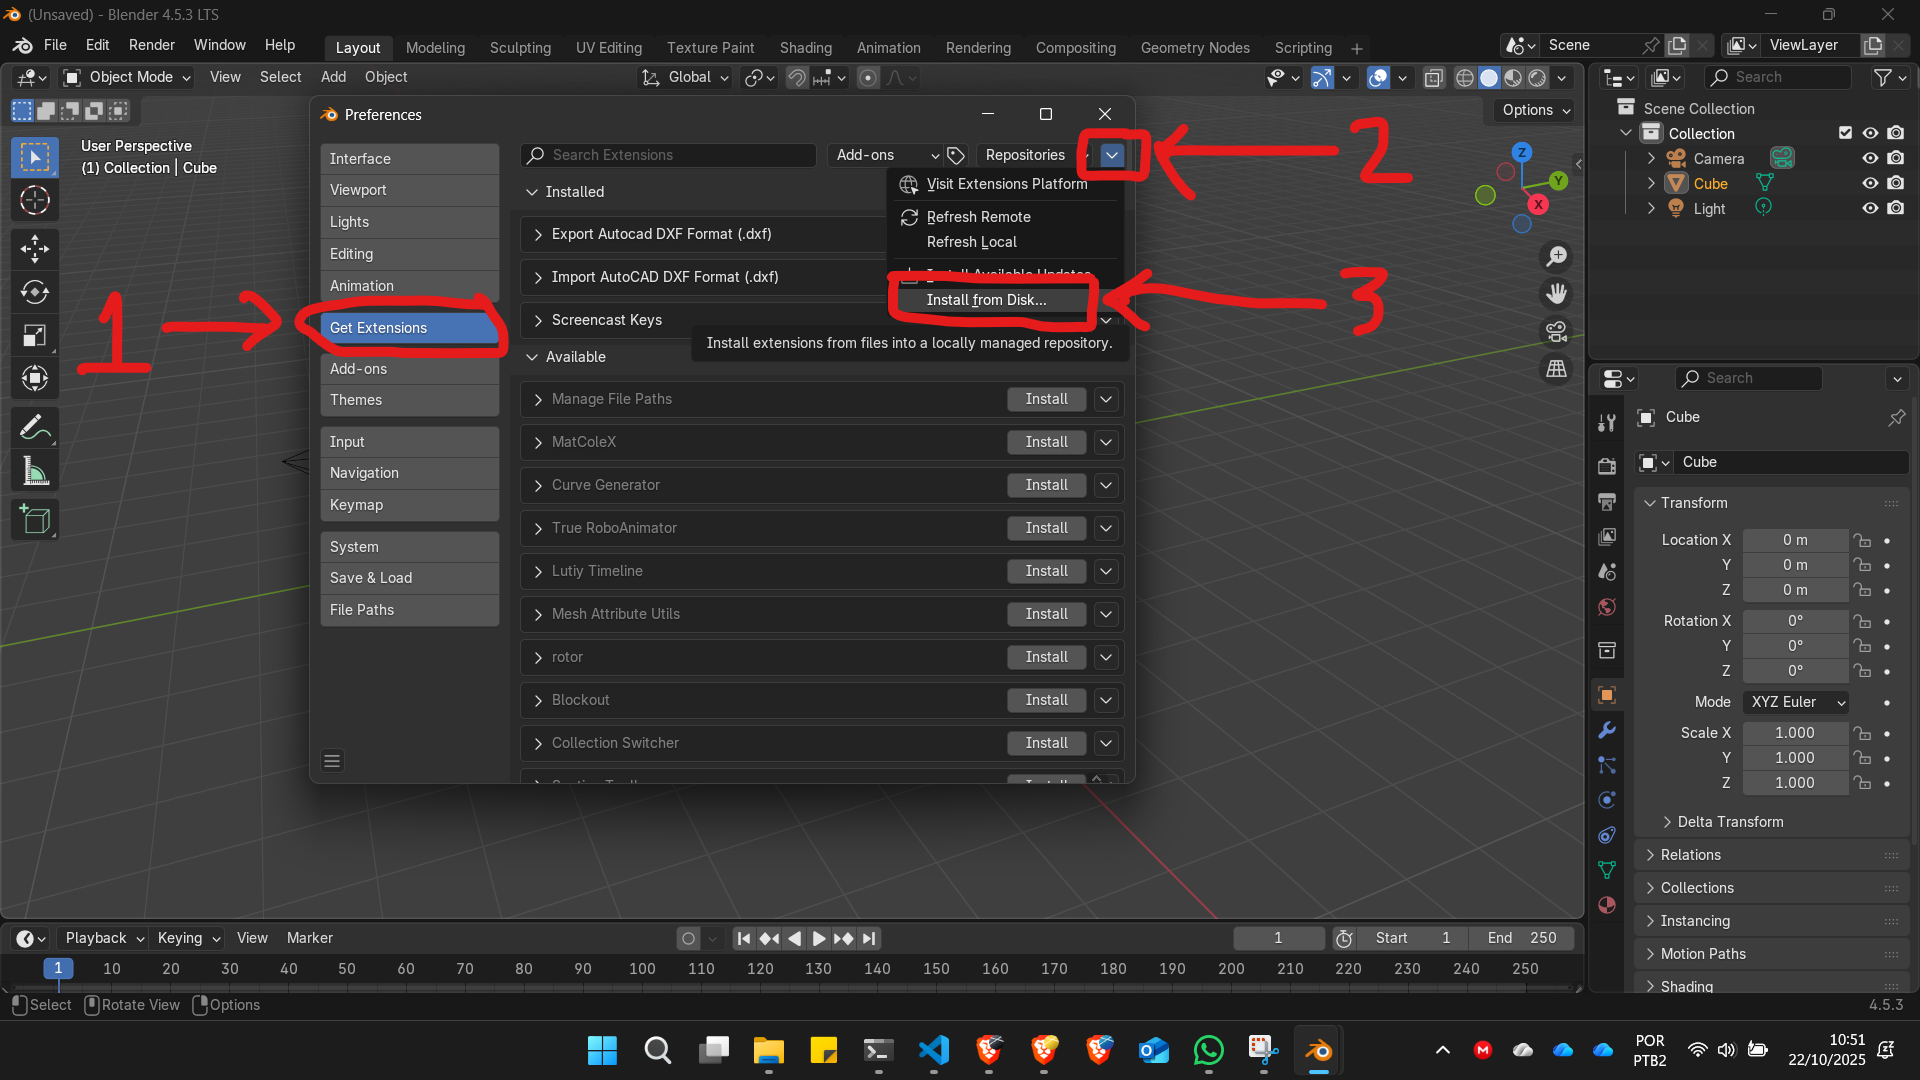
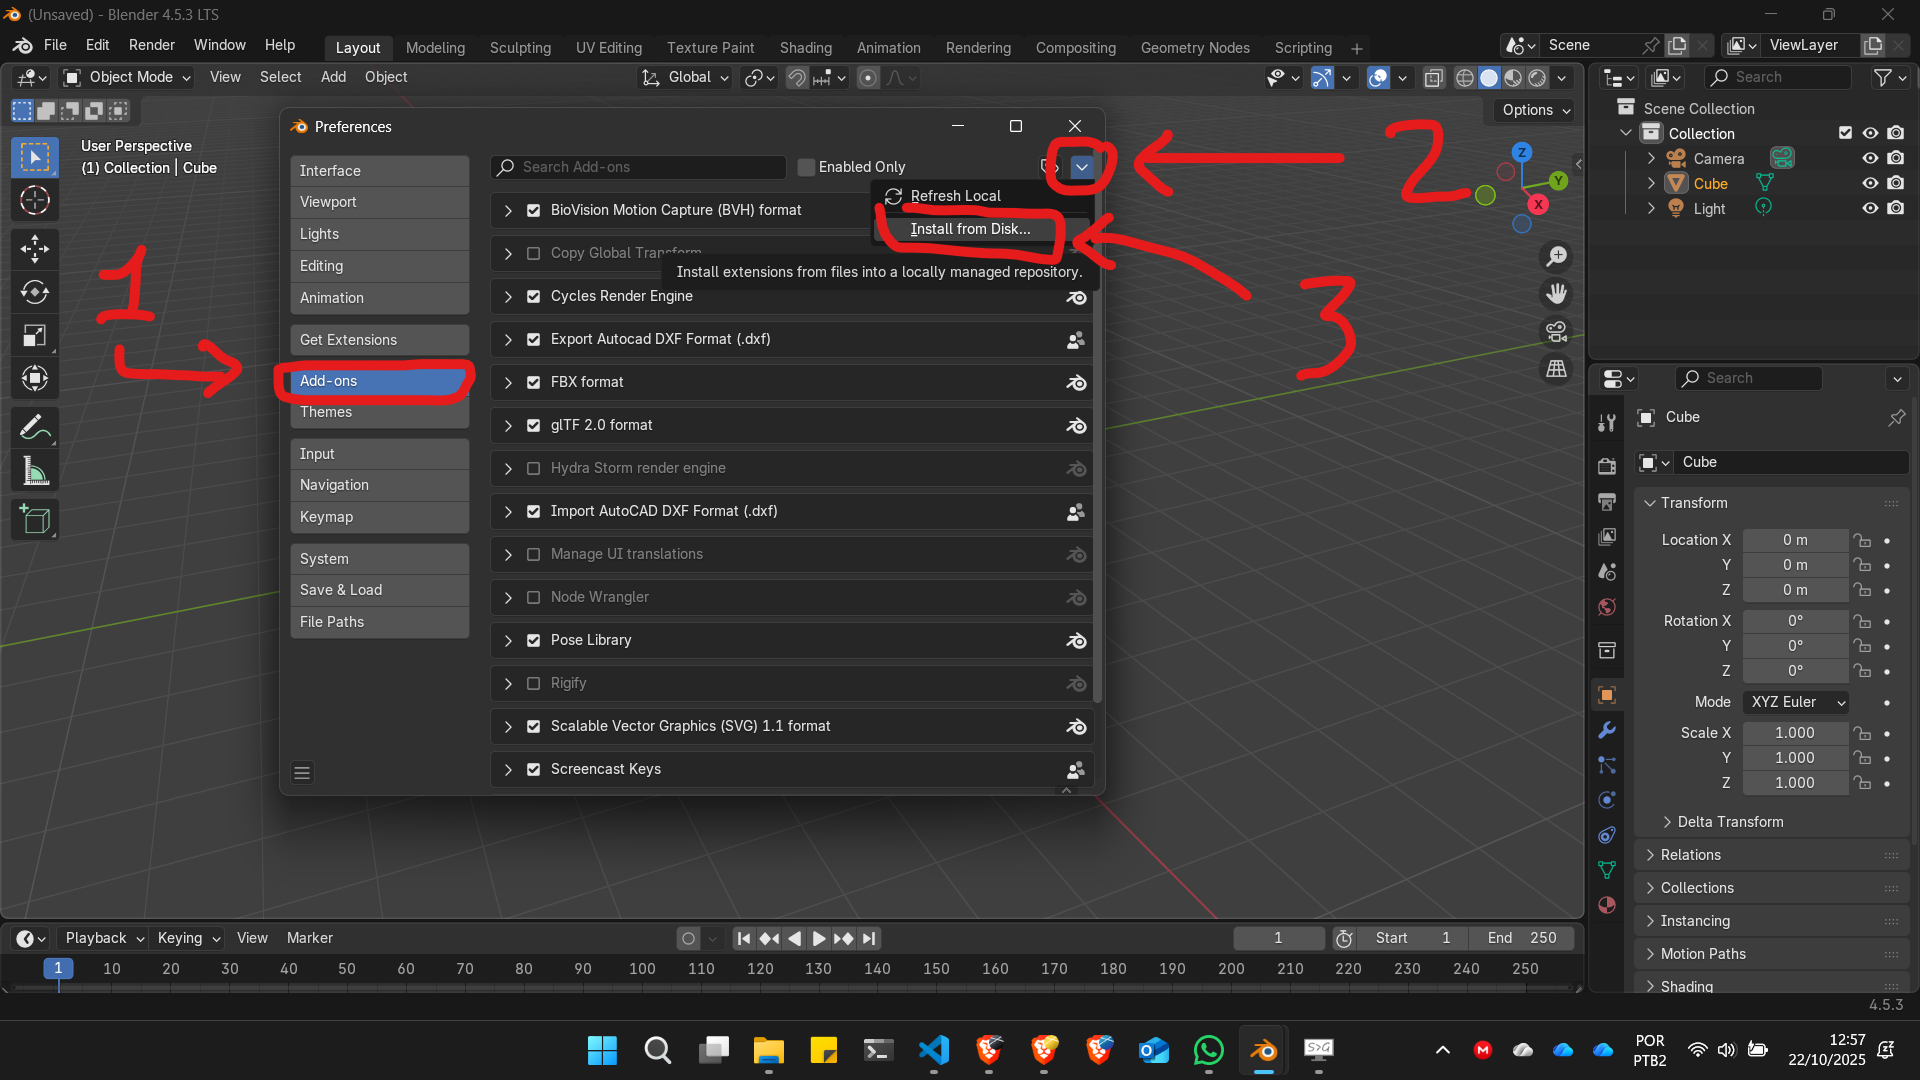
add install from disk update

Changed region(s): [[0.0312, 0.0917, 0.7812, 0.7333], [0.625, 0.9472, 0.7188, 1.0], [0.0, 0.9167, 0.125, 0.9472]]

diff --git a/docs/blender/BlenderGisInstall.md b/docs/blender/BlenderGisInstall.md
@@ -16,7 +16,7 @@ Baixe o último lançamento no formato compactado .zip
 
 ## Instalando
 
-Baixe o arquivo .zip e, pela tela de ```Edit->Preferences->Get Extensions```, clique na seta de dropdown na direita da janela e escolha a opção  **Install From Disk**
+Baixe o arquivo .zip e, pela tela de ```Edit -> Preferences -> Add-ons```, clique na seta de dropdown na direita da janela e escolha a opção  **Install From Disk**
 
 ![alt text](../figs/imgBlender/install_from_disk/install_from_disk.png)
 
@@ -24,10 +24,7 @@ O gif abaixo mostra o caminho para chegar na opção install from disk
 
 ![alt text](../figs/imgBlender/install_from_disk/blender_install_from_disk.gif)
 
-O navegador de arquivos do Blender será aberto que que se selecione o arquivo ```.zip``` do add-on
-<!-- ![bgis_install](../figs/imgBlender/INSTALL_ADDONS.JPG) -->
-
-navegue até o local onde baixou o arquivo .zip, selecione o arquivo e aperte o botão **install from Disk**
+O navegador de arquivos do Blender será aberto que que se selecione o arquivo ```.zip``` do add-on. Vá até o local onde baixou o arquivo .zip, selecione o arquivo e aperte o botão **install from Disk**
 
 ![alt text](../figs/imgBlender/install_from_disk/install_from_disk_file.png)
 
